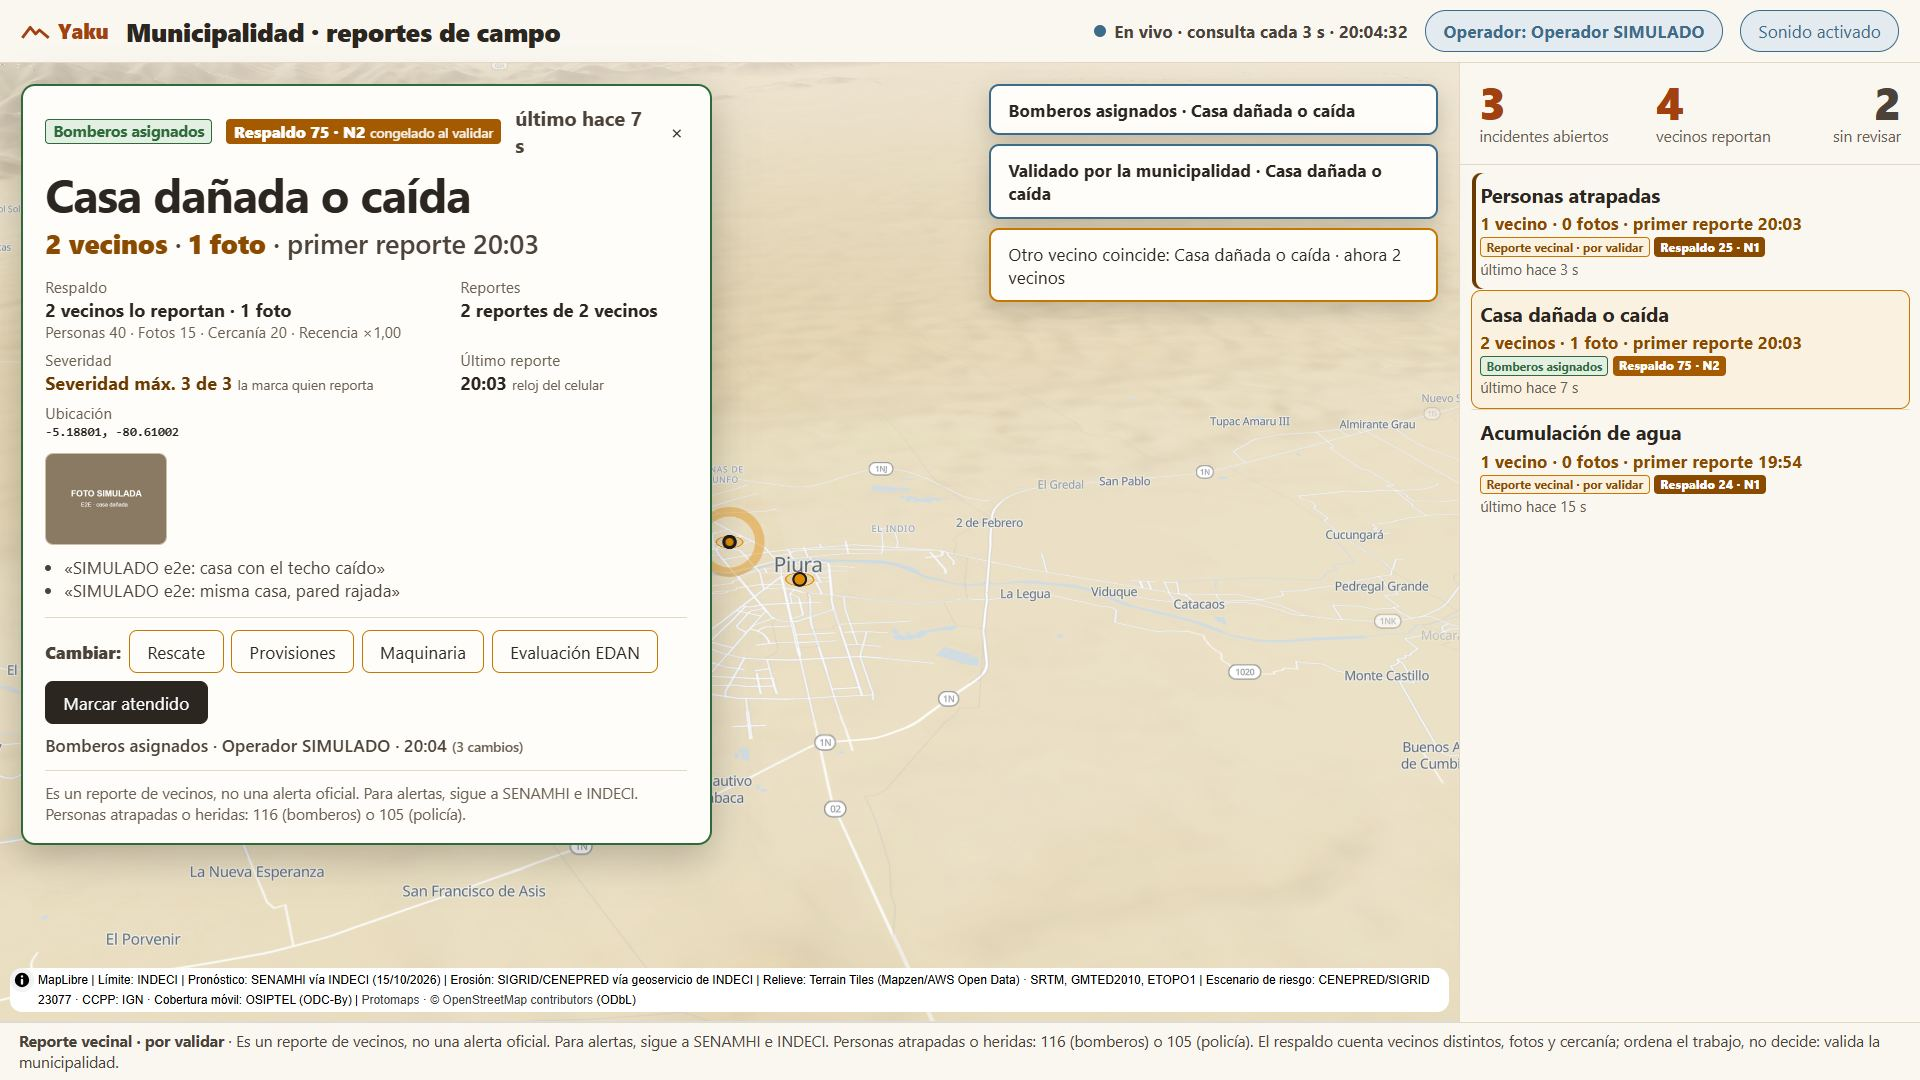
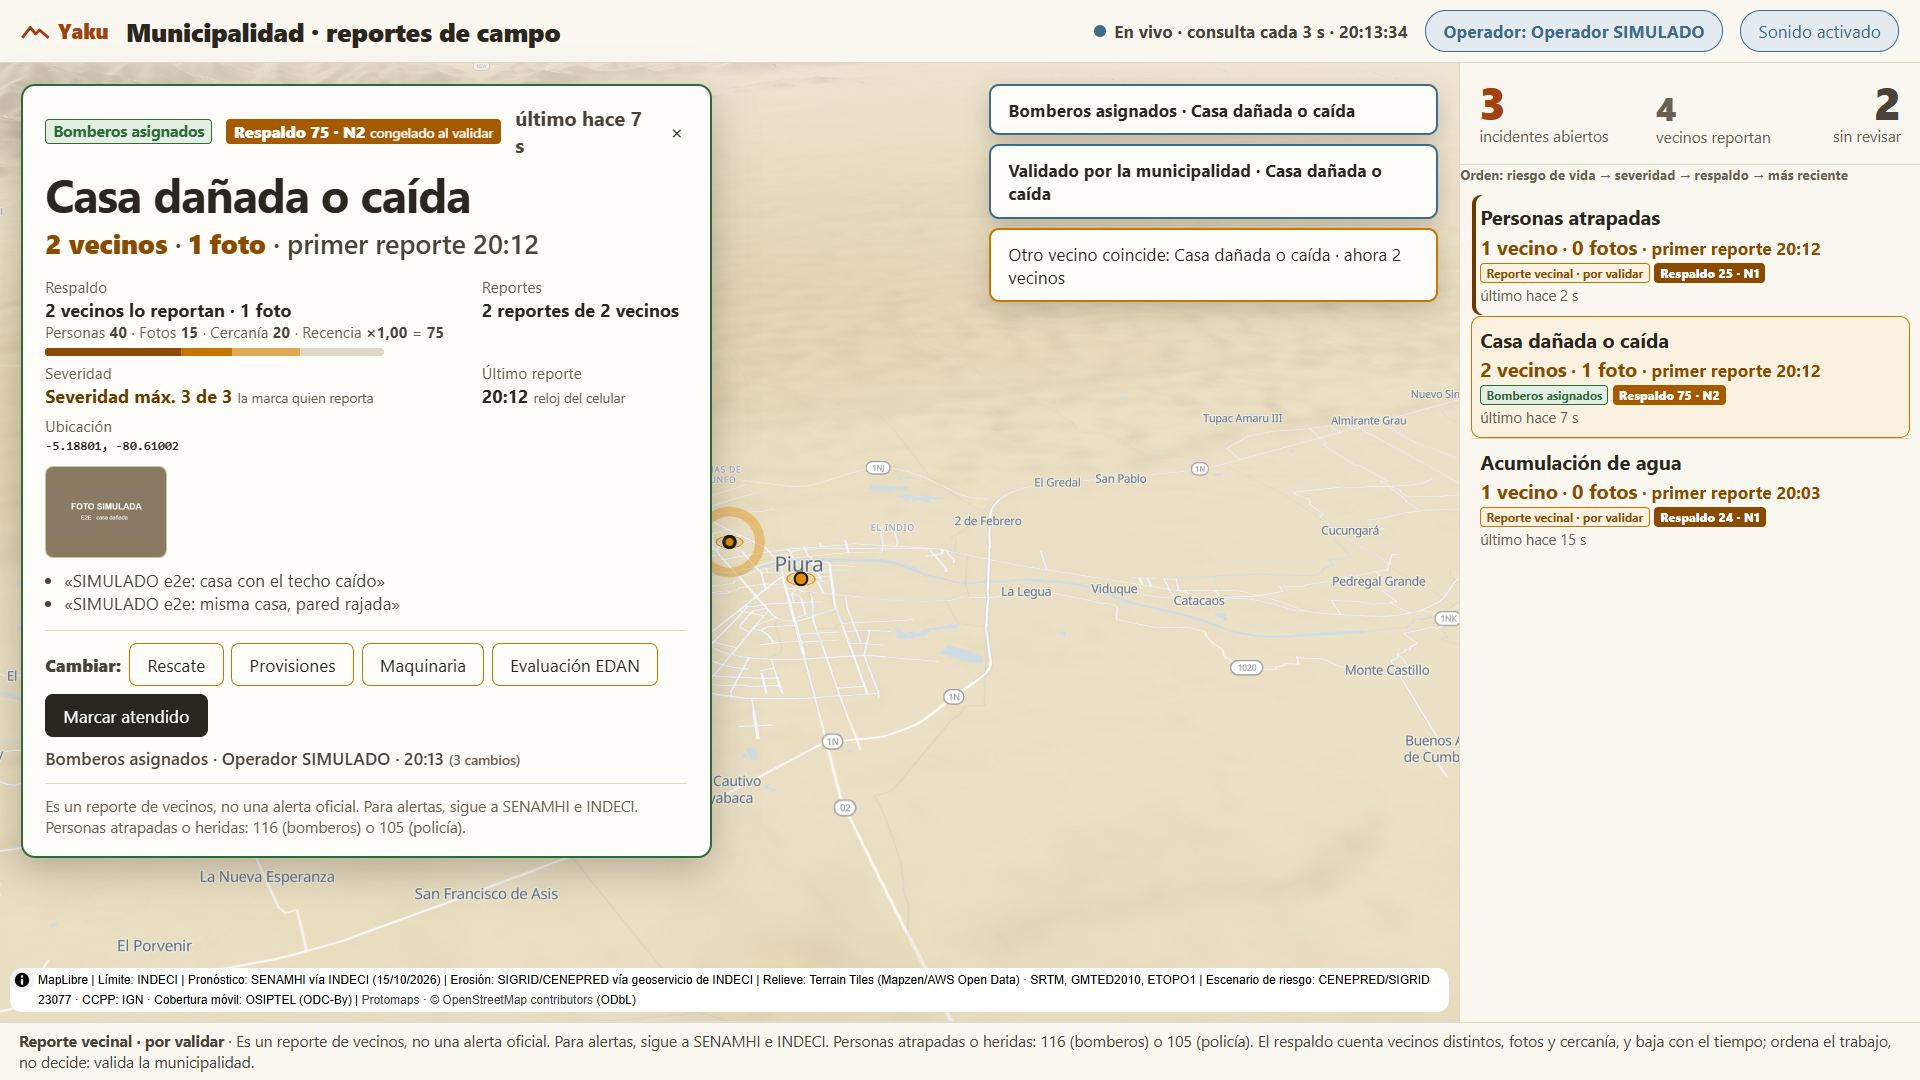
test(municipalidad): E2E 23/23 con rodillo 1→2 y foto pendiente de subir
Atrapados lleva la marca «(con foto)» sin imagen: la tarjeta muestra «1 foto pendiente de subir» y Fotos 0 en el respaldo. Captura de la tarjeta durante el rodillo. 79-83 fps a 1920x1080.

diff --git a/docs/evidencia-3d/municipalidad.md b/docs/evidencia-3d/municipalidad.md
@@ -19,8 +19,16 @@ Textos, respaldo, prioridad y agrupación: `agentards/producto/decision-confianz
   PIN incorrecto (403) → se vuelve a pedir. El PIN vive solo en la memoria de la pestaña; el nombre del operador se recuerda.
 - **Incidente nuevo** → vuelo de cámara (acercamiento + órbita lenta, cancelable con el ratón), marcador pulsante, aviso de
   dos tonos. Si hay un diálogo abierto, el vuelo espera a que se cierre.
-- **Otro vecino coincide** (personas o fotos suben en un incidente existente) → el contador se anima, aviso «Otro vecino
-  coincide: … · ahora 2 vecinos» (clic = ir al incidente) y un tono.
+- **Otro vecino coincide** (personas o fotos suben en un incidente existente) → **rodillo**: el «1» sale hacia arriba, entra el
+  «2» con un «+1» (también en fotos y en el total «vecinos reportan»); aviso «Otro vecino coincide: … · ahora 2 vecinos»
+  (clic = ir al incidente) y un tono. El número viejo lo pinta CSS (`::before`), así el lector de pantalla solo lee el nuevo;
+  con `prefers-reduced-motion` se ve el valor final sin movimiento.
+- **Desglose del respaldo**: «Personas 40 · Fotos 15 · Cercanía 20 · Recencia ×1,00 = 75» + barra apilada 0–100 en ámbar;
+  lo que se pierde por antigüedad va rayado (caso E: (55+25+12) × 0,79 = 73, 19 puntos rayados). Encima de la columna:
+  «Orden: riesgo de vida → severidad → respaldo → más reciente».
+- **Textos desde `src/poblador/textos.ts`**: rótulo, detalle N1–N3, chips de estado (los mismos que ve el poblador), acciones
+  «… asignados», motivo de descarte, «N fotos pendientes de subir» (`FOTOS_PENDIENTES`) y pie legal. El panel solo agrega lo
+  suyo (número 0–100, desglose, orden, pie del respaldo) en `src/vista3d/municipalidad/textos.ts`; HTML puro en `piezas.ts`.
 - Colores: **verde solo para estados municipales** (validado, acción, atendido); nunca rojo para un reporte vecinal.
 - Si el servidor **no tiene** `/api/incidentes` (404, p. ej. producción actual): agrupa `GET /api/reports` en la pantalla con
   las mismas reglas (§3) y **desactiva las acciones** (solo lectura).
@@ -37,10 +45,14 @@ Con `vite dev`/`preview`, `/api` va por proxy a `http://localhost:8080` (o `YAKU
 ## Pruebas
 - Unitario: `tests/vista3d-municipalidad-incidentes.test.ts` (25): lectura de la forma de `servidor-local/vista.ts`,
   ejemplos A–G del respaldo (§2.4), prioridad, nuevos y coincidencias 1→2, flujo de estados, tests (a)–(g) de agrupación;
-  `tests/vista3d-municipalidad.test.ts` (13): detección, «llegó hace», proxy local / producción solo lectura.
+  `tests/vista3d-municipalidad.test.ts` (13): detección, «llegó hace», proxy local / producción solo lectura;
+  `tests/vista3d-municipalidad-piezas.test.ts` (10): rodillo 1→2 (innerText solo «2 vecinos»), desglose B = 75 y E = 73 con
+  tramos, «1/2 fotos pendientes de subir», chips idénticos a los del poblador, verde solo municipal, sin palabras prohibidas.
 - E2E: `npm run e2e:municipalidad` (Node ≥ 23.6): **servidor local real** con SQLite temporal fuera del repo y PIN de prueba.
-  **21/21** (17-oct-2026): A reporta → incidente nuevo y vuelo; B sube su reporte + el de A (relevo) + foto → 1 incidente,
+  **23/23** (17-oct-2026 20:15; antes 21/21): A reporta → incidente nuevo y vuelo; B sube su reporte + el de A (relevo) + foto → 1 incidente,
   contador 1 → 2 animado, respaldo 75 · N2; galería; atrapados arriba con 116/105; PIN incorrecto → correcto; Validar +
   «Bomberos» persiste en SQLite, tras recargar y en `/api/estado` (acuse al celular); descarte con motivo; modo solo lectura
-  sin `/api/incidentes`; cero CDN; `/` sigue en 2D. ~75 fps a 1920×1080 (GPU integrada de escritorio). Sin celular real medido.
-- Capturas (datos SIMULADOS del E2E): `municipalidad-1920-incidente-2-vecinos.jpg`, `municipalidad-1920-bomberos-asignados.jpg`.
+  sin `/api/incidentes`; cero CDN; `/` sigue en 2D; **rodillo 1 → 2** en la tarjeta; atrapados con «(con foto)» sin imagen →
+  «1 foto pendiente de subir» y Fotos 0 en el respaldo. 79–83 fps a 1920×1080 (GPU integrada de escritorio). Sin celular real medido.
+- Capturas (datos SIMULADOS del E2E): `municipalidad-1920-incidente-2-vecinos.jpg`, `municipalidad-1920-bomberos-asignados.jpg`,
+  `municipalidad-rodillo-1-a-2.jpg` (tarjeta durante el rodillo: «+1» en vecinos y fotos, barra del desglose).
